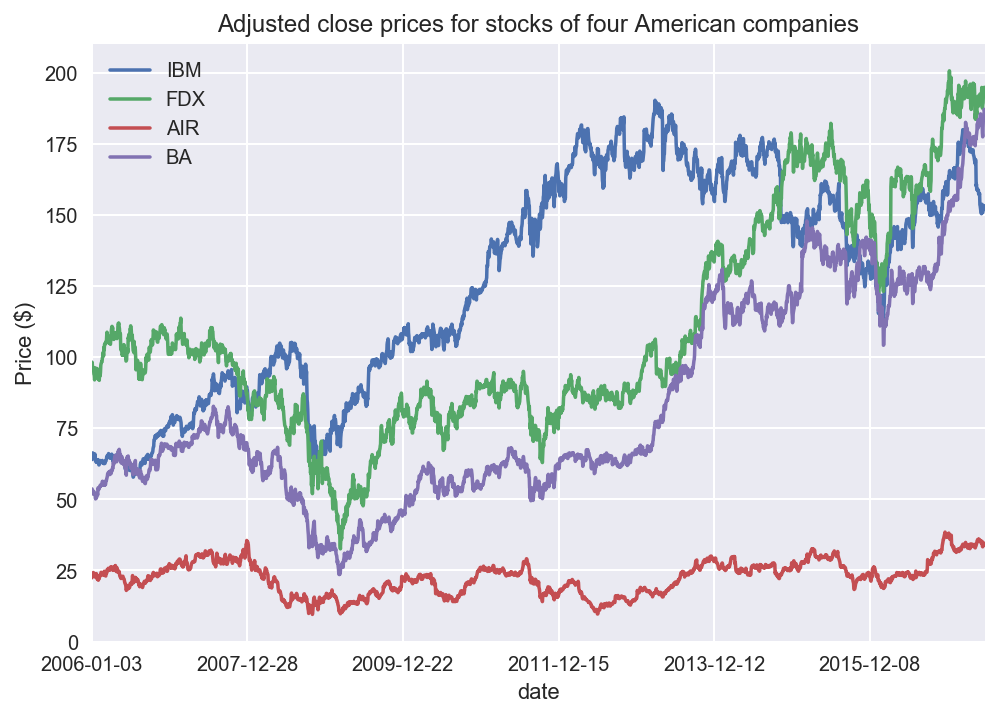
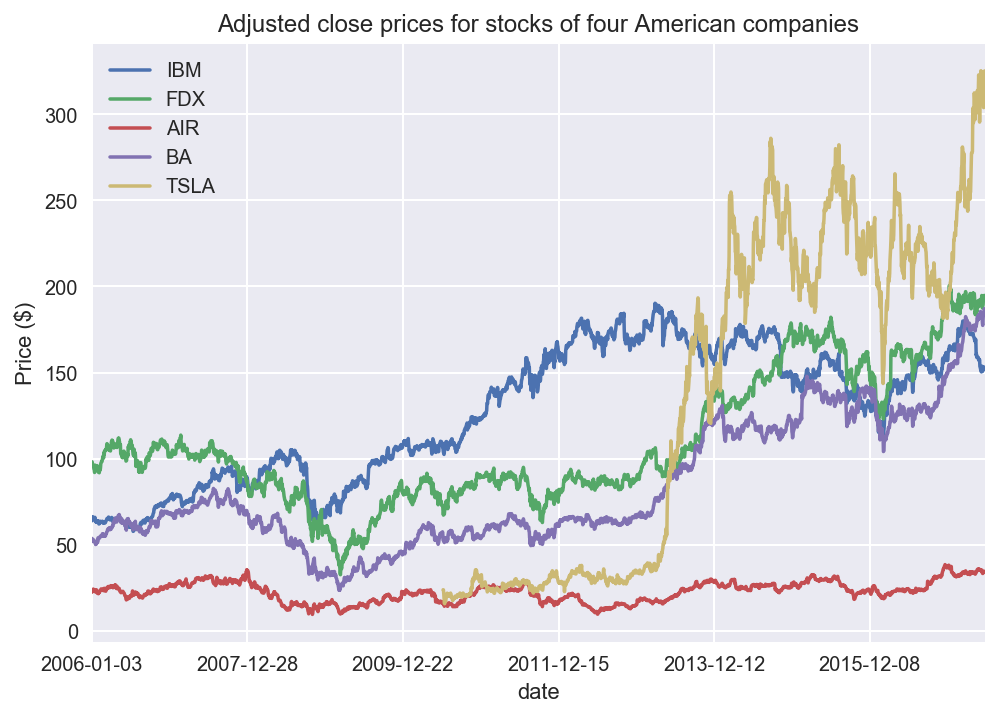
doc: describe data a bit more

diff --git a/doc/report.md b/doc/report.md
@@ -129,7 +129,7 @@ of being independent of magnitude of the data and of being standardize, where
 # II. Analysis
 _(approx. 2-4 pages)_
 
-## Data Exploration
+## Data Exploration and visualization
 
 For obtaining the data we used the [Quandl
 API](https://pypi.python.org/pypi/Quandl) and we downloaded the data for the
@@ -139,31 +139,43 @@ last ten years for the following tickers: 'IBM' (IBM), 'GOOG' (Google), 'AAPL'
 Yahoo! Finance interface for download, since this data is not available in the
 free plan of Quandl.
 
-As already mentioned, the data is tabular data, has one entry for weekday and 
+As already mentioned, the data is tabular, and has one row for each weekday.
+Given that the downloaded stock are from different markets, they have very
+different characteristics. Consider, for example, the table below, that
+compares 'AIR' stock with 'TSLA' stock. Although 'TSLA' is a younger stock than
+'AIR' by 1129 days (in this dataset), when 'TSLA' stock became available, it
+was valued roughly the same as 'AIR' (Figure \ref{five-stock}). Notwithstanding
+that, from 2012 on, 'TSLA' valuation is much higher than 'AIR'. Even more
+interesting is that, being AIR a provider of services and products to the
+commercial aviation market, it is subject to some seasonality, which is
+reflected in its historic stock prices. Evidence of that can be seen in Figure
+\ref{five-stock} and in the table below, as the mean for AIR is close to its
+median value. It is worthy noting that the standard deviation of 'AIR' is
+relatively low, also suggesting some stability in prices, while the standard
+deviation of 'TSLA' is more than five times the mean of 'AIR'.
 
-In this section, you will be expected to analyze the data you are using for the
-problem. This data can either be in the form of a dataset (or datasets), input
-data (or input files), or even an environment. The type of data should be
-thoroughly described and, if possible, have basic statistics and information
-presented (such as discussion of input features or defining characteristics
-about the input or environment). Any abnormalities or interesting qualities
-about the data that may need to be addressed have been identified (such as
-features that need to be transformed or the possibility of outliers). Questions
-to ask yourself when writing this section:
+|Statistic           | 'AIR'   | 'TSLA'  |
+|--------------------|---------|---------|
+| Count              | 2870.00 | 1741.00 |
+| Mean               |   22.64 |  137.17 |
+| Standard Deviation |    5.85 |   97.11 |
+| Minimum            |    9.56 |   15.80 |
+| 25%                |   17.76 |   30.19 |
+| 50%                |   23.20 |  167.01 |
+| 75%                |   26.54 |  223.41 |
+| Maximum            |   38.49 |  325.22 |
 
-- _If a dataset is present for this problem, have you thoroughly discussed
-  certain features about the dataset? Has a data sample been provided to the
-  reader?_
-- _If a dataset is present for this problem, are statistics about the dataset
-  calculated and reported? Have any relevant results from this calculation been
-  discussed?_
-- _If a dataset is **not** present for this problem, has discussion been made
-  about the input space or input data for your problem?_
-- _Are there any abnormalities or characteristics about the input space or
-  dataset that need to be addressed? (categorical variables, missing values,
-  outliers, etc.)_
+As alluded previously, Figure \ref{five-stock} shows the behavior of five
+stocks in the dataset. (Tesla only started being publicly-traded in June 2010,
+so we only have values for dates later than that.) The stocks shown are
+examples of companies from many segments, such as technology, logistics,
+commercial aviation and defense, and an automotive industry. Interestingly
+enough, we can see a trend in 2008, where all stock prices fell, showing
+graphically one of the effects of the recession of the late 2000s. Even more
+interesting is the apparent stationarity of prices for 'AIR'.
 
-## Exploratory Visualization
+![Trends in stock prices. A sharp drop in 2008 (recession) and one seemingly
+seasonal stock.\label{five-stock}](img/stocks.png)
 
 To better appreciate the difference between the adjusted and non-adjusted
 prices of stock, one is directed to Figure \ref{apple-stock}. In the Figure, on
@@ -174,21 +186,20 @@ computing prices.
 
 ![Apple stock prices for the last 10 years.\label{apple-stock}](img/apple-stock.png)
 
-![Trends in stock prices. A sharp drop in 2008 (recession) and one seemingly
-seasonal stock.\label{four-stocks}](img/stocks.png)
-
-In this section, you will need to provide some form of visualization that
-summarizes or extracts a relevant characteristic or feature about the data. The
-visualization should adequately support the data being used. Discuss why this
-visualization was chosen and how it is relevant. Questions to ask yourself when
-writing this section:
-
-- _Have you visualized a relevant characteristic or feature about the dataset
-  or input data?_
-- _Is the visualization thoroughly analyzed and discussed?_
-- _If a plot is provided, are the axes, title, and datum clearly defined?_
-
 ## Algorithms and Techniques
+
+
+
+Being the task of predicting stock prices a regression task, we have many
+algorithms at our disposal. Since it is impossible to 
+
+ * K-nearest neighbors
+
+ * Generalized linear models
+
+ * ARIMA
+
+ * LSTM
 
 In this section, you will need to discuss the algorithms and techniques you
 intend to use for solving the problem. You should justify the use of each one
